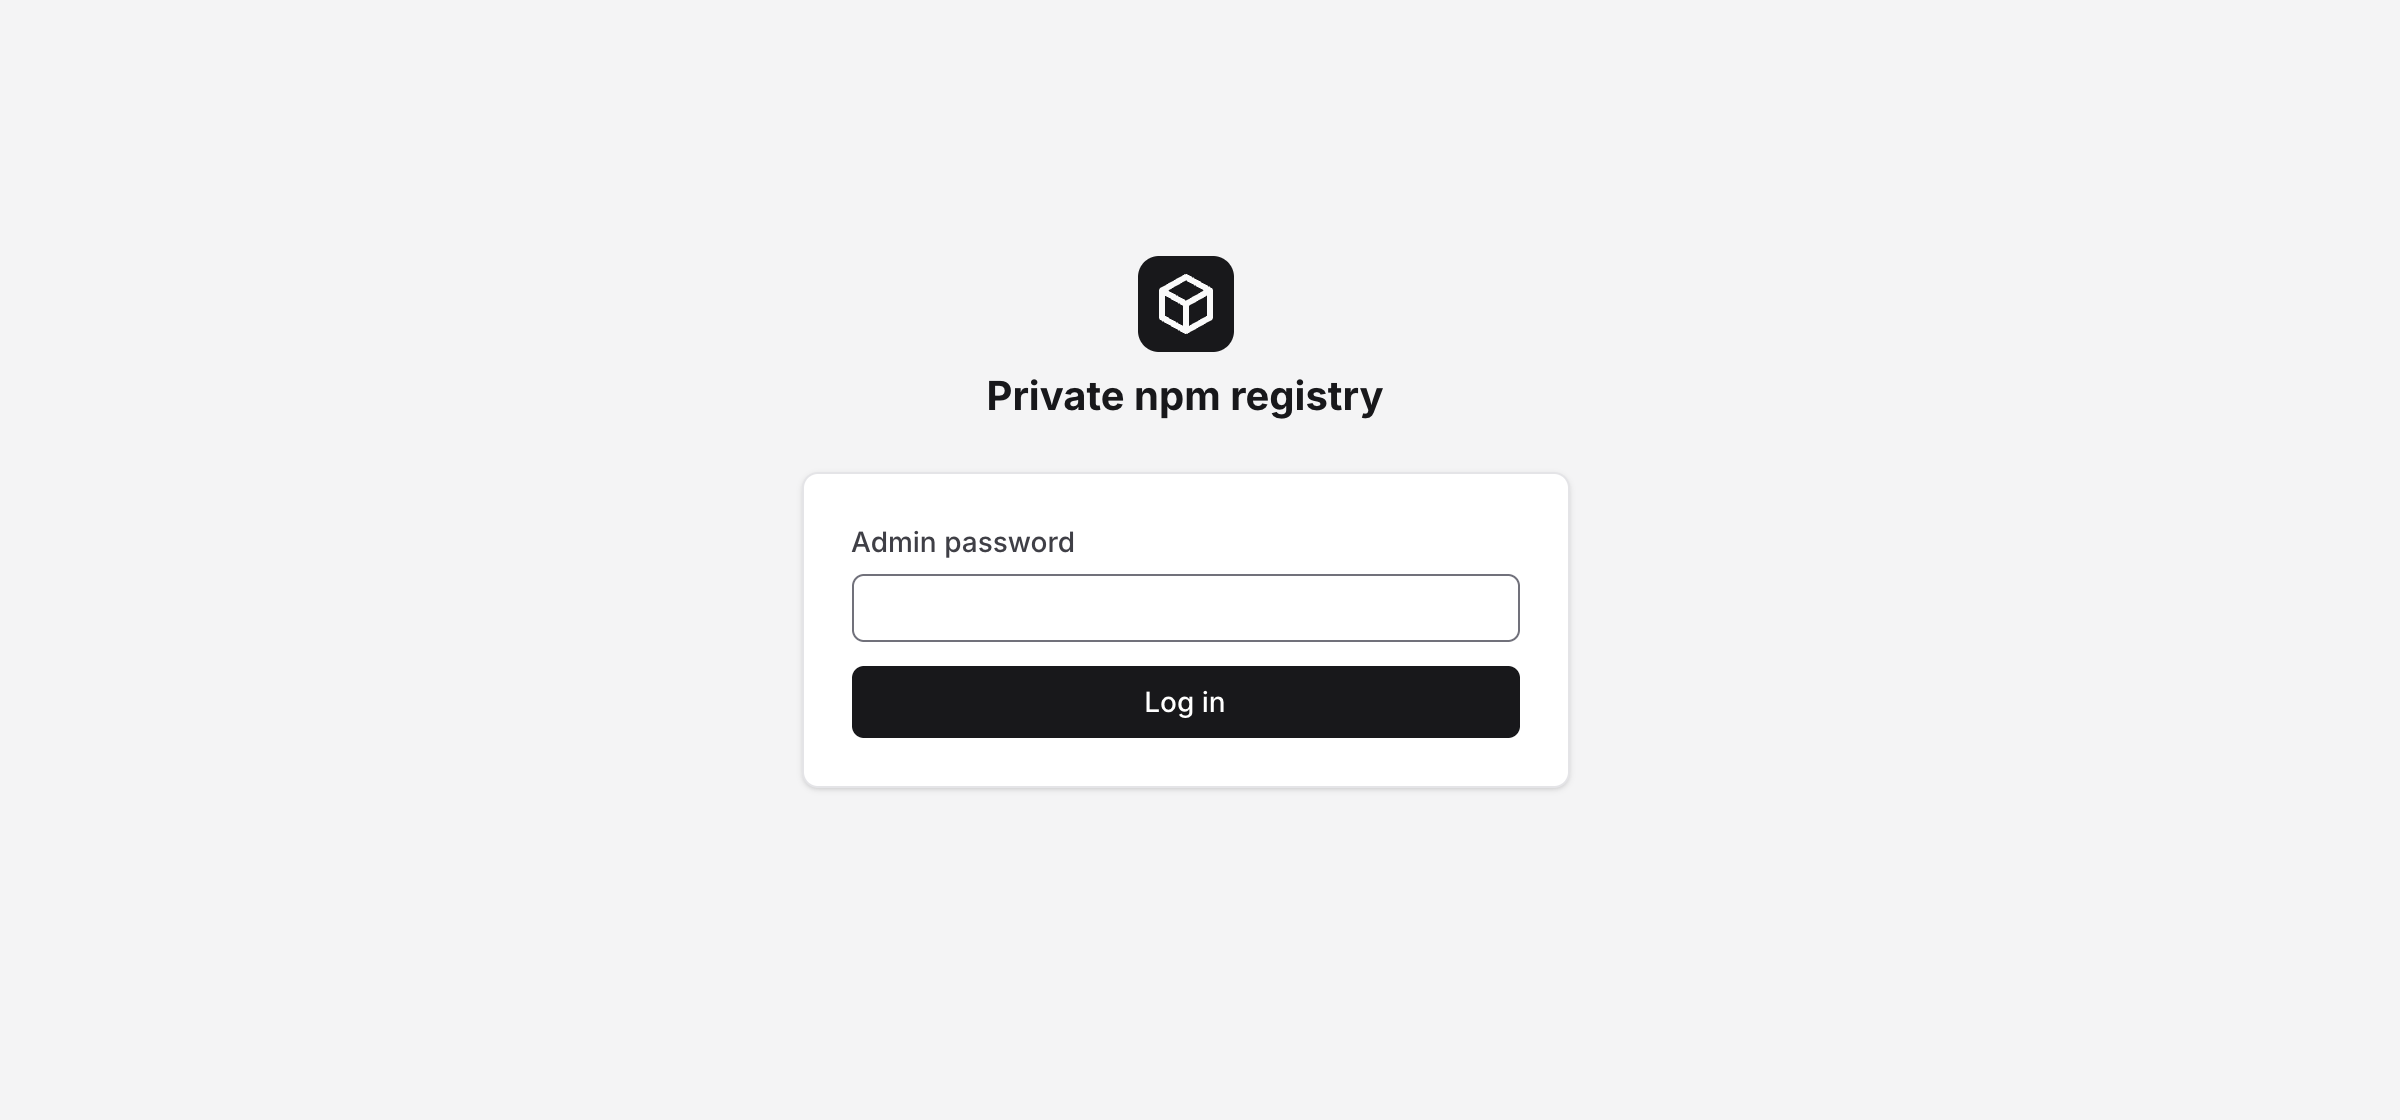
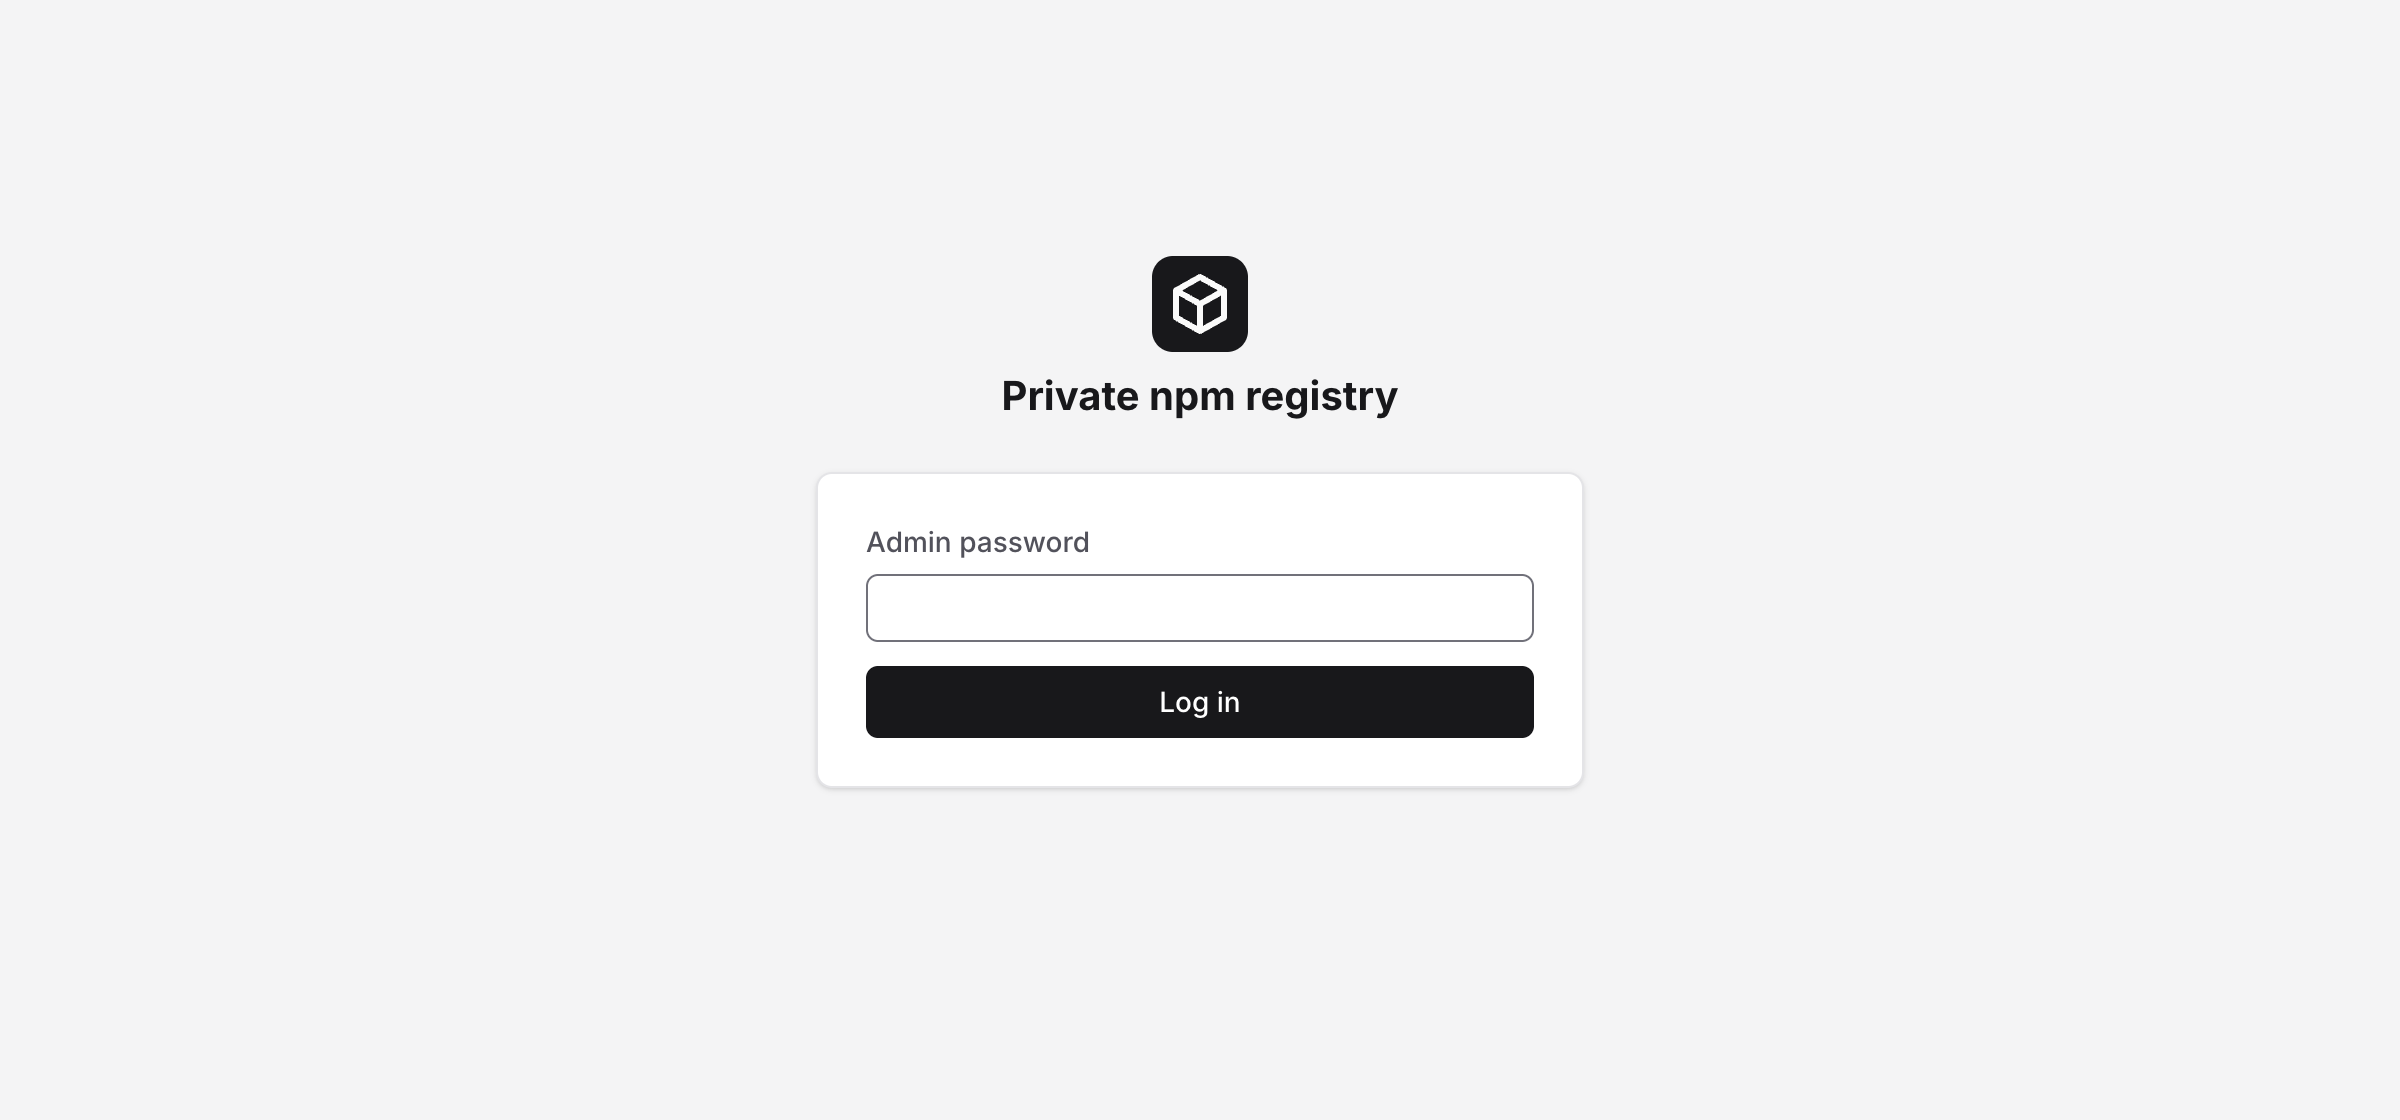
Refresh screenshots, document multi-package tokens and dark mode in README

diff --git a/README.md b/README.md
@@ -8,7 +8,7 @@ A self-hosted npm registry for private packages that runs entirely on Cloudflare
 
 - A real npm registry: `npm install`, `npm publish`, `npm view`, `npm deprecate`, `npm dist-tag`, and `npm unpublish` all work against it.
 - A password-protected web UI to create packages and manage tokens. The password check uses Cloudflare's built-in constant-time comparison (`crypto.subtle.timingSafeEqual`).
-- Per-package access tokens with three permission levels: read only (install), write only (publish), or read and write. Each package can have as many tokens as you like, and every token is scoped to exactly one package.
+- Access tokens with three permission levels: read only (install), write only (publish), or read and write. A token can grant access to a single package or to several at once, and each package can have as many tokens as you like.
 - Tokens are stored as SHA-256 hashes and shown exactly once at creation.
 - No proxying of the public registry by default. Requests for packages you do not host return 404 unless you opt in (see [Proxying the public registry](#proxying-the-public-registry)).
 
@@ -21,6 +21,10 @@ The dashboard lists your packages with their latest version, version count, and 
 Each package page has ready-to-paste `.npmrc` and install snippets, token management (tokens are shown exactly once, right after creation), the published versions with their dist-tags, and a danger zone:
 
 ![Package page with setup snippets, tokens, and versions](docs/screenshots/package.png)
+
+The tokens page manages every token in one place, including tokens that span multiple packages. The whole UI also follows your system's light or dark theme automatically:
+
+![Tokens page in dark mode with a token spanning two packages](docs/screenshots/tokens.png)
 
 The UI sits behind a single admin password:
 
@@ -88,7 +92,7 @@ Log in, create a package like `@yourscope/yourpackage`, then generate tokens for
 - a **write** token for CI that publishes it,
 - or a **read and write** token for local development.
 
-The token value is shown once. Copy it immediately.
+When generating a token you pick which packages it grants access to, so one token can cover your whole scope (handy for a developer machine or a CI job that installs several private packages). The tokens page shows every token across all packages. The token value itself is shown once; copy it immediately.
 
 ### 2. Point npm at your registry for your scope
 
@@ -124,7 +128,7 @@ In the repo of the package itself, with a write token in its `.npmrc`:
 npm publish
 ```
 
-Note that the package must first be created in the UI: tokens belong to packages, so there is nothing to authenticate against before it exists. Version conflicts are rejected (you cannot overwrite an already-published version), and `npm publish --tag beta`, `npm deprecate`, `npm dist-tag`, and `npm unpublish` behave like they do on the public registry.
+Note that the package must first be created in the UI: tokens grant access per package, so there is nothing to authenticate against before it exists. Version conflicts are rejected (you cannot overwrite an already-published version), and `npm publish --tag beta`, `npm deprecate`, `npm dist-tag`, and `npm unpublish` behave like they do on the public registry.
 
 ## Proxying the public registry
 
@@ -145,7 +149,7 @@ Requests for unknown packages (and npm audit calls) are then forwarded to `UPSTR
 
 - UI sessions are signed HMAC cookies derived from the admin password. Changing the password invalidates all sessions.
 - Registry tokens are random 256-bit values, stored only as SHA-256 hashes. The UI shows a short prefix so you can tell tokens apart later.
-- A token only ever grants access to the single package it was created for, limited to the read or write permissions you picked.
+- A token only ever grants access to the packages you selected when creating it, limited to the read or write permissions you picked.
 - Everything (packuments and tarballs included) requires a token; nothing about your private packages is publicly readable.
 
 ## Local development